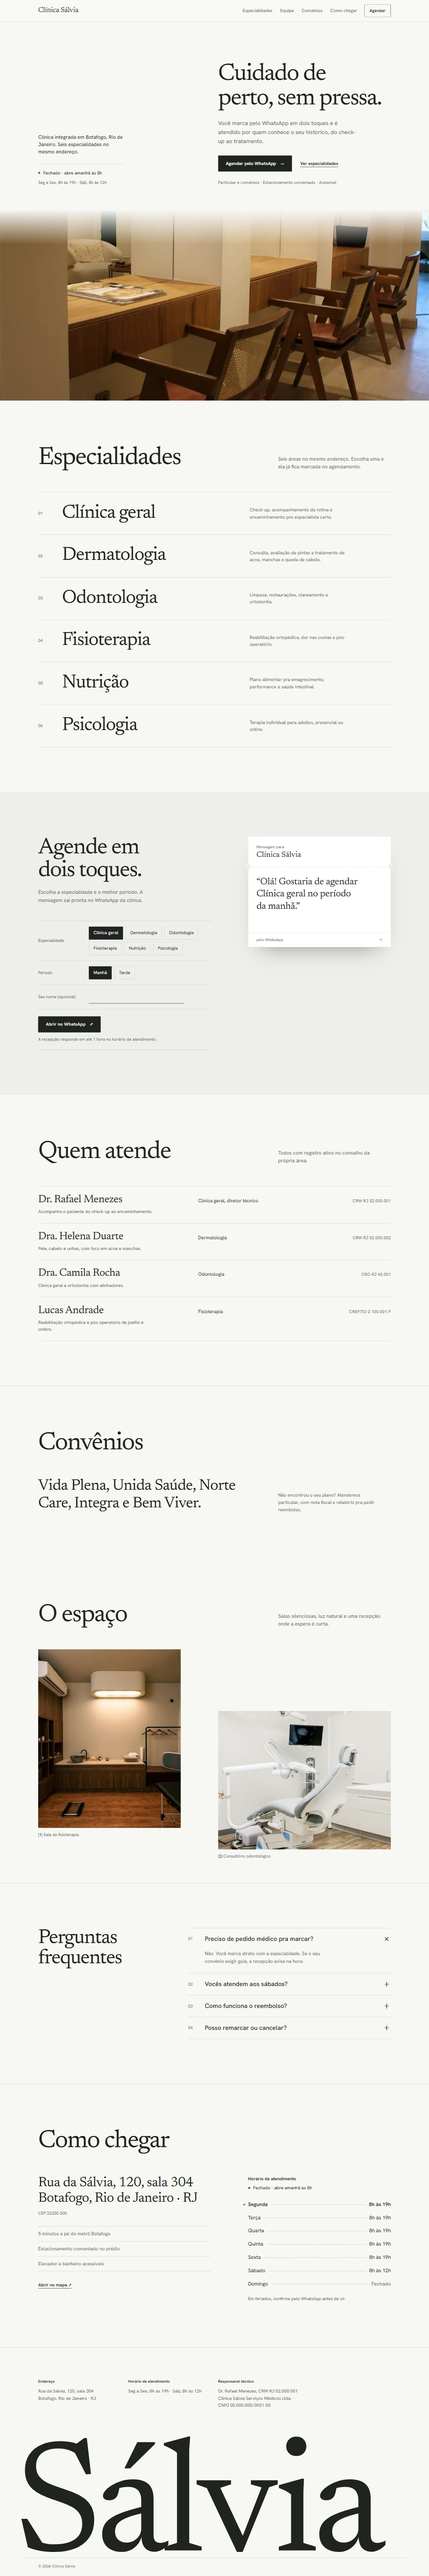
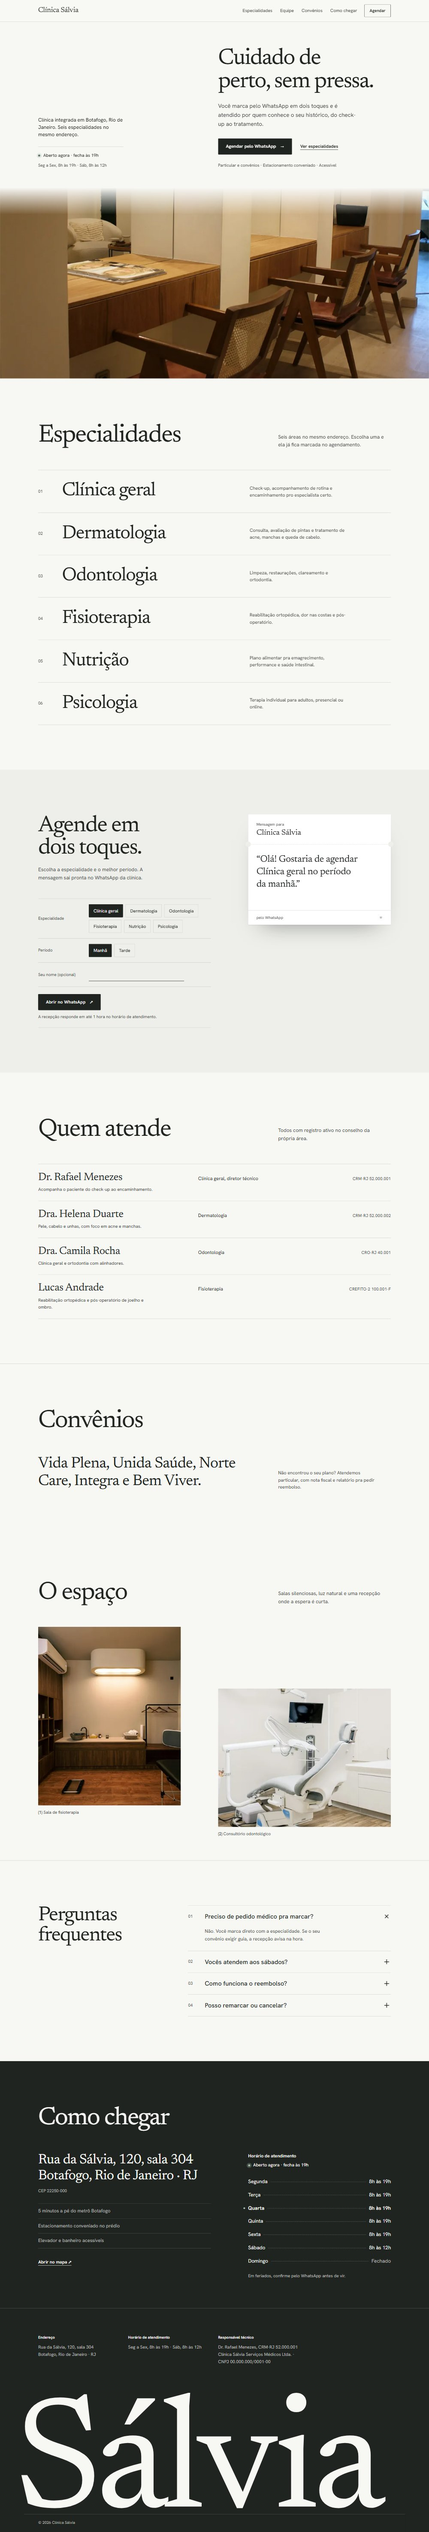
fix(templates): revisão 2: Brava no topo, foto do Sálvia na primeira tela e fecho escuro, scrim no hero do Mirante, foto full-bleed no Atelier
- data/templates.ts: Brava lidera a lista (home, galeria, comparador).
- Sálvia: hero vira coluna de tela inteira, a foto preenche o que sobra; localização e rodapé no ink (.on-ink troca os tokens).
- Mirante: faixa esquerda-direita e sombra nas letras, degradê mais forte no celular.
- Atelier: width: 100% na figura (max-height + aspect-ratio encolhia a largura em telas largas).
- Cards do Sálvia e do Mirante regenerados.

diff --git a/frontend/src/data/templates.ts b/frontend/src/data/templates.ts
@@ -44,11 +44,40 @@ export interface TemplateMeta {
 	demoLocale: 'pt' | 'en';
 	/** Gradient for placeholder tiles. */
 	grad: string;
-	/** Recently added: "Novo" chip on its card. Keep new templates first in the list so they lead the home band. */
+	/** Recently added: "Novo" chip on its card. */
 	isNew?: boolean;
 }
 
+/** Order = order on the home band and the gallery: the strongest demo leads (Brava), then the newest. */
 export const templates: TemplateMeta[] = [
+	{
+		slug: 'brava',
+		name: 'Brava',
+		accent: 'Vitrine',
+		kind: 'storefront',
+		cat: { pt: 'Vitrine · Contagem regressiva', en: 'Storefront · Countdown' },
+		desc: {
+			pt: 'Vitrine com contagem regressiva: produtos, lookbook e newsletter, cada item levando pro seu checkout.',
+			en: 'Storefront with a countdown: products, lookbook and newsletter, each item linking to your checkout.',
+		},
+		lead: {
+			pt: 'Vitrine pra lançamento com data marcada: contagem regressiva, produtos, lookbook, história e newsletter. Os produtos apontam pro checkout que você já usa (Shopify, Nuvemshop, Yampi). Na demo é um drop de moda, mas serve pra coleção nova, pré-venda, encomendas de época ou ingresso de evento.',
+			en: 'Storefront for a dated launch: countdown, products, lookbook, story and newsletter. Products link to the checkout you already use (Shopify, Nuvemshop, Yampi). The demo is a fashion drop, but it fits a new collection, a pre-sale, seasonal orders or event tickets.',
+		},
+		fits: {
+			pt: ['loja ou marca', 'coleção nova', 'pré-venda', 'evento com ingresso'],
+			en: ['shop or brand', 'new collection', 'pre-sale', 'ticketed event'],
+		},
+		examples: [{ key: 'moda', label: { pt: 'drop de moda', en: 'fashion drop' } }],
+		sections: {
+			pt: ['Faixa de avisos', 'Hero + contagem regressiva', 'Vitrine (6 produtos)', 'Lookbook', 'História', 'Newsletter', 'Rodapé'],
+			en: ['Announcement ticker', 'Hero + countdown', 'Storefront (6 products)', 'Lookbook', 'Story', 'Newsletter', 'Footer'],
+		},
+		priceFrom: 4800,
+		days: 3,
+		demoLocale: 'en',
+		grad: 'linear-gradient(135deg,#DCFCE7,#B8F5CB)',
+	},
 	{
 		slug: 'pimenta',
 		name: 'Pimenta',
@@ -194,34 +223,6 @@ export const templates: TemplateMeta[] = [
 		days: 2,
 		demoLocale: 'en',
 		grad: 'linear-gradient(135deg,#E8E4FE,#D4CFFA)',
-	},
-	{
-		slug: 'brava',
-		name: 'Brava',
-		accent: 'Vitrine',
-		kind: 'storefront',
-		cat: { pt: 'Vitrine · Contagem regressiva', en: 'Storefront · Countdown' },
-		desc: {
-			pt: 'Vitrine com contagem regressiva: produtos, lookbook e newsletter, cada item levando pro seu checkout.',
-			en: 'Storefront with a countdown: products, lookbook and newsletter, each item linking to your checkout.',
-		},
-		lead: {
-			pt: 'Vitrine pra lançamento com data marcada: contagem regressiva, produtos, lookbook, história e newsletter. Os produtos apontam pro checkout que você já usa (Shopify, Nuvemshop, Yampi). Na demo é um drop de moda, mas serve pra coleção nova, pré-venda, encomendas de época ou ingresso de evento.',
-			en: 'Storefront for a dated launch: countdown, products, lookbook, story and newsletter. Products link to the checkout you already use (Shopify, Nuvemshop, Yampi). The demo is a fashion drop, but it fits a new collection, a pre-sale, seasonal orders or event tickets.',
-		},
-		fits: {
-			pt: ['loja ou marca', 'coleção nova', 'pré-venda', 'evento com ingresso'],
-			en: ['shop or brand', 'new collection', 'pre-sale', 'ticketed event'],
-		},
-		examples: [{ key: 'moda', label: { pt: 'drop de moda', en: 'fashion drop' } }],
-		sections: {
-			pt: ['Faixa de avisos', 'Hero + contagem regressiva', 'Vitrine (6 produtos)', 'Lookbook', 'História', 'Newsletter', 'Rodapé'],
-			en: ['Announcement ticker', 'Hero + countdown', 'Storefront (6 products)', 'Lookbook', 'Story', 'Newsletter', 'Footer'],
-		},
-		priceFrom: 4800,
-		days: 3,
-		demoLocale: 'en',
-		grad: 'linear-gradient(135deg,#DCFCE7,#B8F5CB)',
 	},
 ];
 

diff --git a/frontend/src/templates/salvia/styles.css b/frontend/src/templates/salvia/styles.css
@@ -4,7 +4,8 @@
 
    Direction: editorial and quiet. Serif titles at regular weight, hairlines
    instead of cards, near-square corners (theme.radius ≈ 2), one dark button.
-   Secondary text uses --ink-2 only, so the page reads in two tones.
+   Secondary text uses --ink-2 only, so the page reads in two tones. The page
+   closes dark: location and footer sit on ink (`.on-ink`).
    ========================================================================== */
 .tpl-salvia {
 	--serif: 'Newsreader Variable', 'Newsreader', Georgia, 'Times New Roman', serif;
@@ -13,6 +14,9 @@
 	--pad-x: clamp(20px, 4vw, 48px);
 	--line: color-mix(in srgb, var(--ink) 16%, transparent);
 	--ease: cubic-bezier(0.76, 0, 0.24, 1);
+	/* Kept from the theme so a section can swap ink and paper (see .on-ink). */
+	--paper: var(--bg);
+	--night: var(--ink);
 	background: var(--bg);
 	color: var(--ink);
 	font-family: var(--grot);
@@ -176,6 +180,22 @@
 .tpl-salvia .mnav .mnav-panel .mnav-cta {
 	background: var(--ink);
 	color: var(--bg);
+}
+
+/* Dark close (location + footer): ink becomes the ground, paper the text.
+   Tokens are swapped locally, so every rule inside keeps reading var(--ink). */
+.tpl-salvia .on-ink {
+	--ink: var(--paper);
+	--ink-2: color-mix(in srgb, var(--paper) 72%, var(--night));
+	--bg: var(--night);
+	--bg-2: color-mix(in srgb, var(--paper) 8%, var(--night));
+	--line: color-mix(in srgb, var(--paper) 18%, transparent);
+	/* The light accent reads on ink: dots, underlines and focus rings pick it up. */
+	--accent: var(--accent-on-dark);
+	--accent-text: var(--accent-on-dark);
+	--accent-soft: color-mix(in srgb, var(--accent-on-dark) 28%, transparent);
+	background: var(--night);
+	color: var(--ink);
 }
 
 .tpl-salvia .visually-hidden {

diff --git a/frontend/src/templates/salvia/README.md b/frontend/src/templates/salvia/README.md
@@ -29,6 +29,8 @@ salvia/
 
 Newsreader (títulos) e Hanken Grotesk (texto), via `@fontsource-variable`. O scaffold adiciona os dois pacotes ao `package.json` do cliente. O tema deve usar `radius` perto de 2 e um `accent` discreto: o botão é escuro (`ink`), o accent aparece em detalhes.
 
+A página fecha escura: localização e rodapé sentam no `ink` (classe `.on-ink` em `styles.css`, que troca os tokens localmente), e o hero ocupa a primeira tela inteira, com a foto larga preenchendo o que sobra abaixo do texto.
+
 ## Config
 
 Base (core): `brand`, `theme`, `seo`, `contact`, `analytics`, `legal`, `nav`. Strings **md** aceitam `**texto**` (itálico na cor de destaque), `==texto==` (marca-texto) e `\n`. Todo bloco com `title` aceita `lead?` e tem título padrão.
